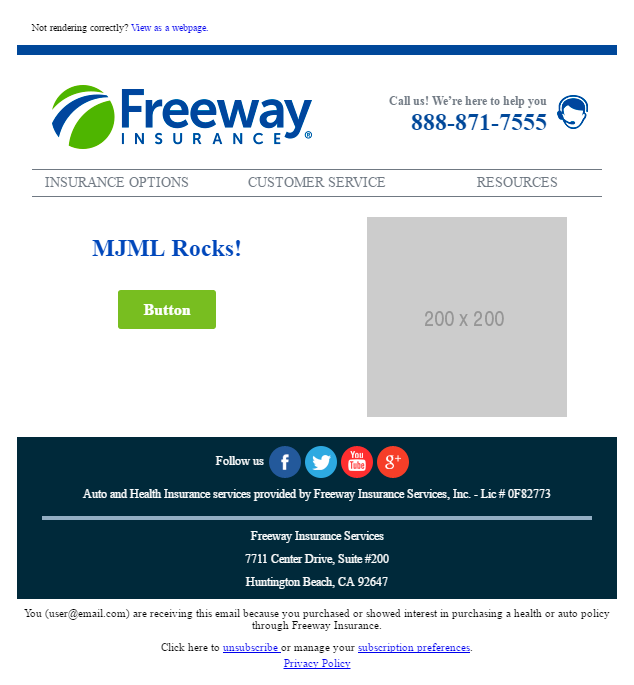
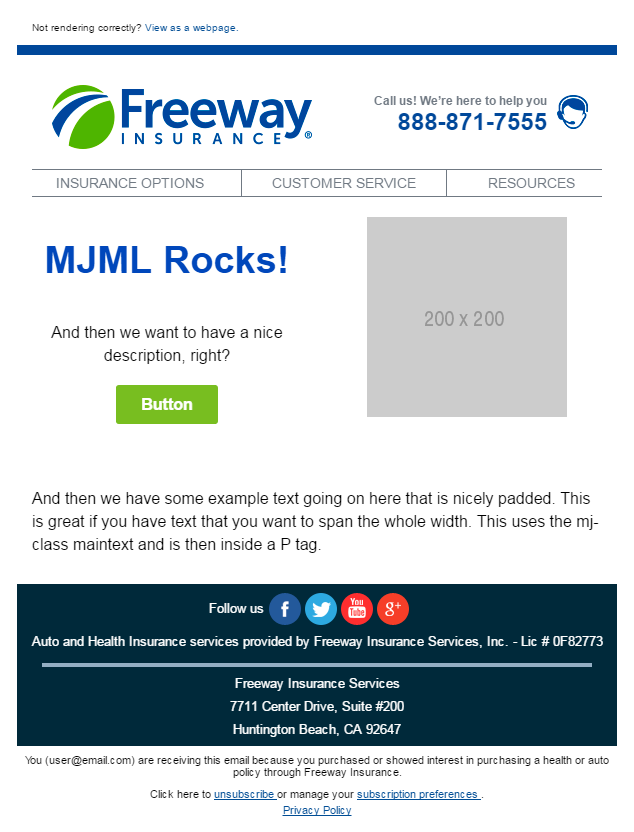
fixed the css styles that were not showing up, had to put them outside the attribute tag in order for them to work. Also fixed the menu, for some reason the vertical lines were not showing but they are back now.

Changed region(s): [[0.0, 0.4599, 0.989, 0.981], [0.03, 0.0307, 0.989, 0.5212], [0.6593, 0.3679, 0.8091, 0.3985]]

diff --git a/Template/template.html b/Template/template.html
@@ -11,7 +11,7 @@
     width:100% !important;
   }
 </style>
-<![endif]--><style type="text/css">@media only screen and (min-width:480px){.mj-column-per-100{width:100%!important}.mj-column-per-50{width:50%!important}.mj-column-per-50{width:50%!important}.mj-column-per-80{width:80%!important}.mj-column-per-20{width:20%!important}.mj-column-per-33{width:33.333333333333336%!important}.mj-column-per-100{width:100%!important}.mj-column-per-42{width:42%!important}.mj-column-per-6{width:6%!important}}</style></head><body style="background:#fff"><div style="display:none;font-size:1px;color:#fff;line-height:1px;max-height:0;max-width:0;opacity:0;overflow:hidden">This is the pre header text</div><div class="mj-container" style="background-color:#fff"><!--[if mso | IE]>
+<![endif]--><style type="text/css">@media (max-width:480px){.navhide{border-right-color:#fff!important;border-right-width:0;border-right-style:none}}</style><style type="text/css">@media only screen and (min-width:480px){.mj-column-per-100{width:100%!important}.mj-column-per-50{width:50%!important}.mj-column-per-50{width:50%!important}.mj-column-per-80{width:80%!important}.mj-column-per-20{width:20%!important}.mj-column-per-37{width:37%!important}.mj-column-per-34{width:34%!important}.mj-column-per-28{width:28%!important}.mj-column-per-100{width:100%!important}.mj-column-per-42{width:42%!important}.mj-column-per-6{width:6%!important}}</style></head><body style="background:#fff"><div style="display:none;font-size:1px;color:#fff;line-height:1px;max-height:0;max-width:0;opacity:0;overflow:hidden">This is the pre header text</div><div class="mj-container" style="background-color:#fff"><!--[if mso | IE]>
       <table role="presentation" border="0" cellpadding="0" cellspacing="0" width="600" align="center" style="width:600px;">
         <tr>
           <td style="line-height:0px;font-size:0px;mso-line-height-rule:exactly;">
@@ -23,7 +23,7 @@
       <table role="presentation" border="0" cellpadding="0" cellspacing="0">
         <tr>
           <td style="vertical-align:top;width:600px;">
-      <![endif]--><div class="mj-column-per-100 outlook-group-fix" style="vertical-align:top;display:inline-block;direction:ltr;font-size:13px;text-align:left;width:100%"><table role="presentation" cellpadding="0" cellspacing="0" width="100%" border="0"><tbody><tr><td style="word-wrap:break-word;font-size:0;padding:0 0 10px 15px" align="left"><div style="cursor:auto;color:#000;font-family:Merriweather+Sans,Arial,Helvetica,sans-serif;font-size:10px;line-height:15px;text-align:left">Not rendering correctly? <a style="text-decoration:none" data-targettype="sysaction" href="http://s651302597.t.en25.com/e/es?s=~~eloqua..type--emailfield..syntax--siteid..encodeFor--url~~&e=~~eloqua..type--emailfield..syntax--elqemailsaveguid..encodeFor--url~~&elqTrackId=233c7383c2044c308bdcd185b1a0b427">View as a webpage.</a></div></td></tr><tr><td style="word-wrap:break-word;font-size:0;padding:0"><p style="font-size:1px;margin:0 auto;border-top:10px solid #00489a;width:100%"></p><!--[if mso | IE]><table role="presentation" align="center" border="0" cellpadding="0" cellspacing="0" style="font-size:1px;margin:0px auto;border-top:10px solid #00489a;width:100%;" width="600"><tr><td style="height:0;line-height:0;"> </td></tr></table><![endif]--></td></tr></tbody></table></div><!--[if mso | IE]>
+      <![endif]--><div class="mj-column-per-100 outlook-group-fix" style="vertical-align:top;display:inline-block;direction:ltr;font-size:13px;text-align:left;width:100%"><table role="presentation" cellpadding="0" cellspacing="0" width="100%" border="0"><tbody><tr><td style="word-wrap:break-word;font-size:0;padding:0 0 10px 15px" align="left"><div style="cursor:auto;color:#000;font-family:Arial,Helvetica,sans-serif;font-size:10px;line-height:15px;text-align:left">Not rendering correctly? <a style="color:#004d95;text-decoration:none" data-targettype="sysaction" href="http://s651302597.t.en25.com/e/es?s=~~eloqua..type--emailfield..syntax--siteid..encodeFor--url~~&e=~~eloqua..type--emailfield..syntax--elqemailsaveguid..encodeFor--url~~&elqTrackId=233c7383c2044c308bdcd185b1a0b427">View as a webpage.</a></div></td></tr><tr><td style="word-wrap:break-word;font-size:0;padding:0"><p style="line-height:23px;margin-bottom:8px;font-size:1px;margin:0 auto;border-top:10px solid #00489a;width:100%"></p><!--[if mso | IE]><table role="presentation" align="center" border="0" cellpadding="0" cellspacing="0" style="font-size:1px;margin:0px auto;border-top:10px solid #00489a;width:100%;" width="600"><tr><td style="height:0;line-height:0;"> </td></tr></table><![endif]--></td></tr></tbody></table></div><!--[if mso | IE]>
       </td></tr></table>
       <![endif]--></td></tr></tbody></table></div><!--[if mso | IE]>
         </td>
@@ -34,13 +34,13 @@
       <table role="presentation" border="0" cellpadding="0" cellspacing="0">
         <tr>
           <td style="vertical-align:top;width:300px;">
-      <![endif]--><div class="mj-column-per-50 outlook-group-fix" style="vertical-align:top;display:inline-block;direction:ltr;font-size:13px;text-align:left;width:100%"><table role="presentation" cellpadding="0" cellspacing="0" style="vertical-align:top" width="100%" border="0"><tbody><tr><td style="word-wrap:break-word;font-size:0;padding:0;padding-top:0;padding-left:30px" align="center"><table role="presentation" cellpadding="0" cellspacing="0" style="border-collapse:collapse;border-spacing:0" align="center" border="0"><tbody><tr><td style="width:260px"><a href="http://www.freewayinsurance.com/" target="_blank"><img alt="" height="auto" src="http://www.freewayinsurance.com/mailing/fwm25-04-2016/images/logo.png" style="border:none;border-radius:0;display:block;font-size:13px;outline:0;text-decoration:none;width:100%;height:auto" width="260"></a></td></tr></tbody></table></td></tr></tbody></table></div><!--[if mso | IE]>
+      <![endif]--><div class="mj-column-per-50 outlook-group-fix" style="vertical-align:top;display:inline-block;direction:ltr;font-size:13px;text-align:left;width:100%"><table role="presentation" cellpadding="0" cellspacing="0" style="vertical-align:top" width="100%" border="0"><tbody><tr><td style="word-wrap:break-word;font-size:0;padding:0;padding-top:0;padding-left:30px" align="center"><table role="presentation" cellpadding="0" cellspacing="0" style="border-collapse:collapse;border-spacing:0" align="center" border="0"><tbody><tr><td style="width:260px"><a href="http://www.freewayinsurance.com/" target="_blank" style="color:#004d95"><img alt="" height="auto" src="http://www.freewayinsurance.com/mailing/fwm25-04-2016/images/logo.png" style="border:none;border-radius:0;display:block;font-size:13px;outline:0;text-decoration:none;width:100%;height:auto" width="260"></a></td></tr></tbody></table></td></tr></tbody></table></div><!--[if mso | IE]>
       </td><td style="vertical-align:top;width:300px;">
       <![endif]--><div class="mj-column-per-50 outlook-group-fix" style="vertical-align:top;display:inline-block;font-size:0;line-height:0;text-align:left;width:100%"><!--[if mso | IE]>
       <table  role="presentation" border="0" cellpadding="0" cellspacing="0">
         <tr>
           <td style="vertical-align:bottom;width:240px;">
-      <![endif]--><div class="mj-column-per-80 outlook-group-fix" style="vertical-align:bottom;display:inline-block;direction:ltr;font-size:13px;text-align:left;width:80%"><table role="presentation" cellpadding="0" cellspacing="0" style="vertical-align:bottom" width="100%" border="0"><tbody><tr><td style="word-wrap:break-word;font-size:0;padding:10px 10px 0 0" align="right"><div style="cursor:auto;color:#707983;font-family:Merriweather+Sans,Arial,Helvetica,sans-serif;font-size:12px;font-weight:700;line-height:12px;text-align:right">Call us! We’re here to help you</div></td></tr><tr><td style="word-wrap:break-word;font-size:0;padding:0 10px 0 0" align="right"><div style="cursor:auto;color:#00489a;font-family:Merriweather+Sans,Arial,Helvetica,sans-serif;font-size:24px;font-weight:700;line-height:30px;text-align:right"><a href="tel:8888717555" style="text-decoration:none;color:#00489a">888-871-7555</a></div></td></tr></tbody></table></div><!--[if mso | IE]>
+      <![endif]--><div class="mj-column-per-80 outlook-group-fix" style="vertical-align:bottom;display:inline-block;direction:ltr;font-size:13px;text-align:left;width:80%"><table role="presentation" cellpadding="0" cellspacing="0" style="vertical-align:bottom" width="100%" border="0"><tbody><tr><td style="word-wrap:break-word;font-size:0;padding:10px 10px 0 0" align="right"><div style="cursor:auto;color:#707983;font-family:Arial,Helvetica,sans-serif;font-size:12px;font-weight:700;line-height:12px;text-align:right">Call us! We’re here to help you</div></td></tr><tr><td style="word-wrap:break-word;font-size:0;padding:0 10px 0 0" align="right"><div style="cursor:auto;color:#00489a;font-family:Arial,Helvetica,sans-serif;font-size:24px;font-weight:700;line-height:30px;text-align:right"><a href="tel:8888717555" style="text-decoration:none;color:#00489a">888-871-7555</a></div></td></tr></tbody></table></div><!--[if mso | IE]>
             </td>
             <td style="vertical-align:bottom;width:60px;">
       <![endif]--><div class="mj-column-per-20 outlook-group-fix" style="vertical-align:bottom;display:inline-block;direction:ltr;font-size:13px;text-align:left;width:20%"><table role="presentation" cellpadding="0" cellspacing="0" style="vertical-align:bottom" width="100%" border="0"><tbody><tr><td style="word-wrap:break-word;font-size:0;padding:10px 0 8px 0" align="left"><table role="presentation" cellpadding="0" cellspacing="0" style="border-collapse:collapse;border-spacing:0" align="left" border="0"><tbody><tr><td style="width:31px"><img alt="" height="auto" src="http://www.freewayinsurance.com/mailing/fwm25-04-2016/images/phone-icon.png" style="border:none;border-radius:0;display:block;font-size:13px;outline:0;text-decoration:none;width:100%;height:auto" width="31"></td></tr></tbody></table></td></tr></tbody></table></div><!--[if mso | IE]>
@@ -58,7 +58,7 @@
       <table role="presentation" border="0" cellpadding="0" cellspacing="0">
         <tr>
           <td style="vertical-align:top;width:600px;">
-      <![endif]--><div class="mj-column-per-100 outlook-group-fix" style="vertical-align:top;display:inline-block;direction:ltr;font-size:13px;text-align:left;width:100%"><table role="presentation" cellpadding="0" cellspacing="0" width="100%" border="0"><tbody><tr><td style="word-wrap:break-word;font-size:0;padding:0"><p style="font-size:1px;margin:0 auto;border-top:1px solid #707983;width:95%"></p><!--[if mso | IE]><table role="presentation" align="center" border="0" cellpadding="0" cellspacing="0" style="font-size:1px;margin:0px auto;border-top:1px solid #707983;width:95%;" width="570"><tr><td style="height:0;line-height:0;"> </td></tr></table><![endif]--></td></tr></tbody></table></div><!--[if mso | IE]>
+      <![endif]--><div class="mj-column-per-100 outlook-group-fix" style="vertical-align:top;display:inline-block;direction:ltr;font-size:13px;text-align:left;width:100%"><table role="presentation" cellpadding="0" cellspacing="0" width="100%" border="0"><tbody><tr><td style="word-wrap:break-word;font-size:0;padding:0"><p style="line-height:23px;margin-bottom:8px;font-size:1px;margin:0 auto;border-top:1px solid #707983;width:95%"></p><!--[if mso | IE]><table role="presentation" align="center" border="0" cellpadding="0" cellspacing="0" style="font-size:1px;margin:0px auto;border-top:1px solid #707983;width:95%;" width="570"><tr><td style="height:0;line-height:0;"> </td></tr></table><![endif]--></td></tr></tbody></table></div><!--[if mso | IE]>
       </td></tr></table>
       <![endif]--></td></tr></tbody></table></div><!--[if mso | IE]>
         </td>
@@ -68,12 +68,12 @@
       <![endif]--><div style="margin:0 auto;max-width:600px"><table role="presentation" cellpadding="0" cellspacing="0" style="font-size:0;width:100%" align="center" border="0"><tbody><tr><td style="text-align:center;vertical-align:top;direction:ltr;font-size:0;padding:0"><!--[if mso | IE]>
       <table role="presentation" border="0" cellpadding="0" cellspacing="0">
         <tr>
-          <td style="vertical-align:top;width:200px;" class="navhide-outlook">
-      <![endif]--><div class="mj-column-per-33 outlook-group-fix navhide" style="vertical-align:top;display:inline-block;direction:ltr;font-size:13px;text-align:left;width:100%"><table role="presentation" cellpadding="0" cellspacing="0" width="100%" border="0"><tbody><tr><td style="word-wrap:break-word;font-size:0;padding:3px 0 3px 0" align="center"><div style="cursor:auto;color:#000;font-family:Merriweather+Sans,Arial,Helvetica,sans-serif;font-size:14px;line-height:20px;text-align:center"><a style="text-decoration:none;color:#707983" href="http://www.freewayinsurance.com/insurance-options/">INSURANCE OPTIONS</a></div></td></tr></tbody></table></div><!--[if mso | IE]>
-      </td><td style="vertical-align:top;width:200px;" class="navhide-outlook">
-      <![endif]--><div class="mj-column-per-33 outlook-group-fix navhide" style="vertical-align:top;display:inline-block;direction:ltr;font-size:13px;text-align:left;width:100%"><table role="presentation" cellpadding="0" cellspacing="0" width="100%" border="0"><tbody><tr><td style="word-wrap:break-word;font-size:0;padding:3px 0 3px 0" align="center"><div style="cursor:auto;color:#000;font-family:Merriweather+Sans,Arial,Helvetica,sans-serif;font-size:14px;line-height:20px;text-align:center"><a style="text-decoration:none;color:#707983" href="http://www.freewayinsurance.com/customer-service/">CUSTOMER SERVICE</a></div></td></tr></tbody></table></div><!--[if mso | IE]>
-      </td><td style="vertical-align:top;width:200px;">
-      <![endif]--><div class="mj-column-per-33 outlook-group-fix" style="vertical-align:top;display:inline-block;direction:ltr;font-size:13px;text-align:left;width:100%"><table role="presentation" cellpadding="0" cellspacing="0" width="100%" border="0"><tbody><tr><td style="word-wrap:break-word;font-size:0;padding:3px 0 3px 0" align="center"><div style="cursor:auto;color:#000;font-family:Merriweather+Sans,Arial,Helvetica,sans-serif;font-size:14px;line-height:20px;text-align:center"><a style="text-decoration:none;color:#707983" href="http://www.freewayinsurance.com/resources/">RESOURCES</a></div></td></tr></tbody></table></div><!--[if mso | IE]>
+          <td style="vertical-align:top;width:222px;" class="navhide-outlook">
+      <![endif]--><div class="mj-column-per-37 outlook-group-fix navhide" style="border-right-color:#707983;border-right-width:1px;border-right-style:solid;vertical-align:top;display:inline-block;direction:ltr;font-size:13px;text-align:left;width:100%"><table role="presentation" cellpadding="0" cellspacing="0" width="100%" border="0"><tbody><tr><td style="word-wrap:break-word;font-size:0;padding:3px 0 3px 0" align="center"><div style="cursor:auto;color:#000;font-family:Arial,Helvetica,sans-serif;font-size:14px;line-height:20px;text-align:center"><a style="text-decoration:none;color:#707983" href="http://www.freewayinsurance.com/insurance-options/">INSURANCE OPTIONS</a></div></td></tr></tbody></table></div><!--[if mso | IE]>
+      </td><td style="vertical-align:top;width:204px;" class="navhide-outlook">
+      <![endif]--><div class="mj-column-per-34 outlook-group-fix navhide" style="border-right-color:#707983;border-right-width:1px;border-right-style:solid;vertical-align:top;display:inline-block;direction:ltr;font-size:13px;text-align:left;width:100%"><table role="presentation" cellpadding="0" cellspacing="0" width="100%" border="0"><tbody><tr><td style="word-wrap:break-word;font-size:0;padding:3px 0 3px 0" align="center"><div style="cursor:auto;color:#000;font-family:Arial,Helvetica,sans-serif;font-size:14px;line-height:20px;text-align:center"><a style="text-decoration:none;color:#707983" href="http://www.freewayinsurance.com/customer-service/">CUSTOMER SERVICE</a></div></td></tr></tbody></table></div><!--[if mso | IE]>
+      </td><td style="vertical-align:top;width:168px;">
+      <![endif]--><div class="mj-column-per-28 outlook-group-fix" style="vertical-align:top;display:inline-block;direction:ltr;font-size:13px;text-align:left;width:100%"><table role="presentation" cellpadding="0" cellspacing="0" width="100%" border="0"><tbody><tr><td style="word-wrap:break-word;font-size:0;padding:3px 0 3px 0" align="center"><div style="cursor:auto;color:#000;font-family:Arial,Helvetica,sans-serif;font-size:14px;line-height:20px;text-align:center"><a style="text-decoration:none;color:#707983" href="http://www.freewayinsurance.com/resources/">RESOURCES</a></div></td></tr></tbody></table></div><!--[if mso | IE]>
       </td></tr></table>
       <![endif]--></td></tr></tbody></table></div><!--[if mso | IE]>
         </td>
@@ -84,7 +84,7 @@
       <table role="presentation" border="0" cellpadding="0" cellspacing="0">
         <tr>
           <td style="vertical-align:top;width:600px;">
-      <![endif]--><div class="mj-column-per-100 outlook-group-fix" style="vertical-align:top;display:inline-block;direction:ltr;font-size:13px;text-align:left;width:100%"><table role="presentation" cellpadding="0" cellspacing="0" width="100%" border="0"><tbody><tr><td style="word-wrap:break-word;font-size:0;padding:0"><p style="font-size:1px;margin:0 auto;border-top:1px solid #707983;width:95%"></p><!--[if mso | IE]><table role="presentation" align="center" border="0" cellpadding="0" cellspacing="0" style="font-size:1px;margin:0px auto;border-top:1px solid #707983;width:95%;" width="570"><tr><td style="height:0;line-height:0;"> </td></tr></table><![endif]--></td></tr></tbody></table></div><!--[if mso | IE]>
+      <![endif]--><div class="mj-column-per-100 outlook-group-fix" style="vertical-align:top;display:inline-block;direction:ltr;font-size:13px;text-align:left;width:100%"><table role="presentation" cellpadding="0" cellspacing="0" width="100%" border="0"><tbody><tr><td style="word-wrap:break-word;font-size:0;padding:0"><p style="line-height:23px;margin-bottom:8px;font-size:1px;margin:0 auto;border-top:1px solid #707983;width:95%"></p><!--[if mso | IE]><table role="presentation" align="center" border="0" cellpadding="0" cellspacing="0" style="font-size:1px;margin:0px auto;border-top:1px solid #707983;width:95%;" width="570"><tr><td style="height:0;line-height:0;"> </td></tr></table><![endif]--></td></tr></tbody></table></div><!--[if mso | IE]>
       </td></tr></table>
       <![endif]--></td></tr></tbody></table></div><!--[if mso | IE]>
           </td>
@@ -100,9 +100,21 @@
       <table role="presentation" border="0" cellpadding="0" cellspacing="0">
         <tr>
           <td style="vertical-align:top;width:300px;">
-      <![endif]--><div class="mj-column-per-50 outlook-group-fix" style="vertical-align:top;display:inline-block;direction:ltr;font-size:13px;text-align:left;width:100%"><table role="presentation" cellpadding="0" cellspacing="0" width="100%" border="0"><tbody><tr><td style="word-wrap:break-word;font-size:0;padding:0" align="center"><div style="cursor:auto;color:#0047bb;font-family:Merriweather+Sans,Arial,Helvetica,sans-serif;font-size:16px;line-height:23px;text-align:center"><h2>MJML Rocks!</h2></div></td></tr><tr><td style="word-wrap:break-word;font-size:0;padding:10px 25px" align="center"><table role="presentation" cellpadding="0" cellspacing="0" style="border-collapse:separate" align="center" border="0"><tbody><tr><td style="border:none;border-radius:3px;color:#fff;cursor:auto;padding:10px 25px" align="center" valign="middle" bgcolor="#78BE20"><a href="#" style="text-decoration:none;background:#78be20;color:#fff;font-family:Merriweather+Sans,Arial,Helvetica,sans-serif;font-size:16px;font-weight:700;line-height:120%;text-transform:none;margin:0" target="_blank">Button</a></td></tr></tbody></table></td></tr></tbody></table></div><!--[if mso | IE]>
+      <![endif]--><div class="mj-column-per-50 outlook-group-fix" style="vertical-align:top;display:inline-block;direction:ltr;font-size:13px;text-align:left;width:100%"><table role="presentation" cellpadding="0" cellspacing="0" width="100%" border="0"><tbody><tr><td style="word-wrap:break-word;font-size:0;padding:0" align="center"><div style="cursor:auto;color:#0047bb;font-family:Arial,Helvetica,sans-serif;font-size:16px;line-height:23px;text-align:center"><h2 style="padding-bottom:5px;color:#0047bb;font-size:38px">MJML Rocks!</h2></div></td></tr><tr><td style="word-wrap:break-word;font-size:0;padding:0" align="center"><div style="cursor:auto;color:#000;font-family:Arial,Helvetica,sans-serif;font-size:16px;line-height:23px;text-align:center"><p style="line-height:23px;font-size:16px;margin-bottom:8px">And then we want to have a nice description, right?</p></div></td></tr><tr><td style="word-wrap:break-word;font-size:0;padding:10px 25px" align="center"><table role="presentation" cellpadding="0" cellspacing="0" style="border-collapse:separate" align="center" border="0"><tbody><tr><td style="border:none;border-radius:3px;color:#fff;cursor:auto;padding:10px 25px" align="center" valign="middle" bgcolor="#78BE20"><a href="#" style="text-decoration:none;background:#78be20;color:#fff;font-family:Arial,Helvetica,sans-serif;font-size:16px;font-weight:700;line-height:120%;text-transform:none;margin:0" target="_blank">Button</a></td></tr></tbody></table></td></tr></tbody></table></div><!--[if mso | IE]>
       </td><td style="vertical-align:top;width:300px;">
       <![endif]--><div class="mj-column-per-50 outlook-group-fix" style="vertical-align:top;display:inline-block;direction:ltr;font-size:13px;text-align:left;width:100%"><table role="presentation" cellpadding="0" cellspacing="0" width="100%" border="0"><tbody><tr><td style="word-wrap:break-word;font-size:0;padding:0" align="center"><table role="presentation" cellpadding="0" cellspacing="0" style="border-collapse:collapse;border-spacing:0" align="center" border="0"><tbody><tr><td style="width:200px"><img alt="" height="auto" src="http://placehold.it/200x200" style="border:none;border-radius:0;display:block;font-size:13px;outline:0;text-decoration:none;width:100%;height:auto" width="200"></td></tr></tbody></table></td></tr></tbody></table></div><!--[if mso | IE]>
+      </td></tr></table>
+      <![endif]--></td></tr></tbody></table></div><!--[if mso | IE]>
+      </td></tr></table>
+      <![endif]--><!--[if mso | IE]>
+      <table role="presentation" border="0" cellpadding="0" cellspacing="0" width="600" align="center" style="width:600px;">
+        <tr>
+          <td style="line-height:0px;font-size:0px;mso-line-height-rule:exactly;">
+      <![endif]--><div style="margin:0 auto;max-width:600px"><table role="presentation" cellpadding="0" cellspacing="0" style="font-size:0;width:100%" align="center" border="0"><tbody><tr><td style="text-align:center;vertical-align:top;direction:ltr;font-size:0;padding:20px 0"><!--[if mso | IE]>
+      <table role="presentation" border="0" cellpadding="0" cellspacing="0">
+        <tr>
+          <td style="vertical-align:top;width:600px;">
+      <![endif]--><div class="mj-column-per-100 outlook-group-fix" style="vertical-align:top;display:inline-block;direction:ltr;font-size:13px;text-align:left;width:100%"><table role="presentation" cellpadding="0" cellspacing="0" width="100%" border="0"><tbody><tr><td style="word-wrap:break-word;font-size:0;padding:0 15px 0 15px" align="left"><div style="cursor:auto;color:#000;font-family:Arial,Helvetica,sans-serif;font-size:16px;line-height:23px;text-align:left"><p style="line-height:23px;font-size:16px;margin-bottom:8px">And then we have some example text going on here that is nicely padded. This is great if you have text that you want to span the whole width. This uses the mj-class maintext and is then inside a P tag.</p></div></td></tr></tbody></table></div><!--[if mso | IE]>
       </td></tr></table>
       <![endif]--></td></tr></tbody></table></div><!--[if mso | IE]>
       </td></tr></table>
@@ -118,19 +130,19 @@
       <table bgcolor="#00293a" role="presentation" border="0" cellpadding="0" cellspacing="0">
         <tr>
           <td style="vertical-align:bottom;width:252px;">
-      <![endif]--><div class="mj-column-per-42 outlook-group-fix" style="vertical-align:bottom;display:inline-block;direction:ltr;font-size:13px;text-align:left;width:42%"><table role="presentation" cellpadding="0" cellspacing="0" style="background:#00293a;vertical-align:bottom" width="100%" border="0"><tbody><tr><td style="word-wrap:break-word;font-size:0;padding:0 5px 5px 0" align="right"><div style="cursor:auto;color:#fff;font-family:Merriweather+Sans,Arial,Helvetica,sans-serif;font-size:12px;line-height:23px;text-align:right">Follow us</div></td></tr></tbody></table></div><!--[if mso | IE]>
+      <![endif]--><div class="mj-column-per-42 outlook-group-fix" style="vertical-align:bottom;display:inline-block;direction:ltr;font-size:13px;text-align:left;width:42%"><table role="presentation" cellpadding="0" cellspacing="0" style="background:#00293a;vertical-align:bottom" width="100%" border="0"><tbody><tr><td style="word-wrap:break-word;font-size:0;padding:0 5px 5px 0" align="right"><div style="cursor:auto;color:#fff;font-family:Arial,Helvetica,sans-serif;font-size:13px;line-height:23px;text-align:right">Follow us</div></td></tr></tbody></table></div><!--[if mso | IE]>
             </td>
             <td style="vertical-align:top;width:36px;">
-      <![endif]--><div class="mj-column-per-6 outlook-group-fix" style="vertical-align:top;display:inline-block;direction:ltr;font-size:13px;text-align:left;width:6%"><table role="presentation" cellpadding="0" cellspacing="0" style="background:#00293a" width="100%" border="0"><tbody><tr><td style="word-wrap:break-word;font-size:0;padding:0" align="left"><table role="presentation" cellpadding="0" cellspacing="0" style="border-collapse:collapse;border-spacing:0" align="left" border="0"><tbody><tr><td style="width:32px"><a href="https://www.facebook.com/freewayinsurance" target="_blank"><img alt="" height="auto" src="http://img03.en25.com/EloquaImages/clients/ConfieSegurosHoldingIICo/{df7de0d7-9fc1-4014-9a21-543e3c06efda}_facebook.png" style="border:none;border-radius:0;display:block;font-size:13px;outline:0;text-decoration:none;width:100%;height:auto" width="32"></a></td></tr></tbody></table></td></tr></tbody></table></div><!--[if mso | IE]>
+      <![endif]--><div class="mj-column-per-6 outlook-group-fix" style="vertical-align:top;display:inline-block;direction:ltr;font-size:13px;text-align:left;width:6%"><table role="presentation" cellpadding="0" cellspacing="0" style="background:#00293a" width="100%" border="0"><tbody><tr><td style="word-wrap:break-word;font-size:0;padding:0" align="left"><table role="presentation" cellpadding="0" cellspacing="0" style="border-collapse:collapse;border-spacing:0" align="left" border="0"><tbody><tr><td style="width:32px"><a href="https://www.facebook.com/freewayinsurance" target="_blank" style="color:#004d95"><img alt="" height="auto" src="http://img03.en25.com/EloquaImages/clients/ConfieSegurosHoldingIICo/{df7de0d7-9fc1-4014-9a21-543e3c06efda}_facebook.png" style="border:none;border-radius:0;display:block;font-size:13px;outline:0;text-decoration:none;width:100%;height:auto" width="32"></a></td></tr></tbody></table></td></tr></tbody></table></div><!--[if mso | IE]>
             </td>
             <td style="vertical-align:top;width:36px;">
-      <![endif]--><div class="mj-column-per-6 outlook-group-fix" style="vertical-align:top;display:inline-block;direction:ltr;font-size:13px;text-align:left;width:6%"><table role="presentation" cellpadding="0" cellspacing="0" style="background:#00293a" width="100%" border="0"><tbody><tr><td style="word-wrap:break-word;font-size:0;padding:0" align="left"><table role="presentation" cellpadding="0" cellspacing="0" style="border-collapse:collapse;border-spacing:0" align="left" border="0"><tbody><tr><td style="width:32px"><a href="https://twitter.com/freewaytweet" target="_blank"><img alt="" height="auto" src="http://img03.en25.com/EloquaImages/clients/ConfieSegurosHoldingIICo/{a2f9a344-6a70-4922-aad7-44611feb9e93}_twitter.png" style="border:none;border-radius:0;display:block;font-size:13px;outline:0;text-decoration:none;width:100%;height:auto" width="32"></a></td></tr></tbody></table></td></tr></tbody></table></div><!--[if mso | IE]>
+      <![endif]--><div class="mj-column-per-6 outlook-group-fix" style="vertical-align:top;display:inline-block;direction:ltr;font-size:13px;text-align:left;width:6%"><table role="presentation" cellpadding="0" cellspacing="0" style="background:#00293a" width="100%" border="0"><tbody><tr><td style="word-wrap:break-word;font-size:0;padding:0" align="left"><table role="presentation" cellpadding="0" cellspacing="0" style="border-collapse:collapse;border-spacing:0" align="left" border="0"><tbody><tr><td style="width:32px"><a href="https://twitter.com/freewaytweet" target="_blank" style="color:#004d95"><img alt="" height="auto" src="http://img03.en25.com/EloquaImages/clients/ConfieSegurosHoldingIICo/{a2f9a344-6a70-4922-aad7-44611feb9e93}_twitter.png" style="border:none;border-radius:0;display:block;font-size:13px;outline:0;text-decoration:none;width:100%;height:auto" width="32"></a></td></tr></tbody></table></td></tr></tbody></table></div><!--[if mso | IE]>
             </td>
             <td style="vertical-align:top;width:36px;">
-      <![endif]--><div class="mj-column-per-6 outlook-group-fix" style="vertical-align:top;display:inline-block;direction:ltr;font-size:13px;text-align:left;width:6%"><table role="presentation" cellpadding="0" cellspacing="0" style="background:#00293a" width="100%" border="0"><tbody><tr><td style="word-wrap:break-word;font-size:0;padding:0" align="left"><table role="presentation" cellpadding="0" cellspacing="0" style="border-collapse:collapse;border-spacing:0" align="left" border="0"><tbody><tr><td style="width:32px"><a href="https://www.youtube.com/user/freewayinsurance" target="_blank"><img alt="" height="auto" src="http://img03.en25.com/EloquaImages/clients/ConfieSegurosHoldingIICo/{5d375903-6c0c-450f-9315-604602cfe932}_youtube.png" style="border:none;border-radius:0;display:block;font-size:13px;outline:0;text-decoration:none;width:100%;height:auto" width="32"></a></td></tr></tbody></table></td></tr></tbody></table></div><!--[if mso | IE]>
+      <![endif]--><div class="mj-column-per-6 outlook-group-fix" style="vertical-align:top;display:inline-block;direction:ltr;font-size:13px;text-align:left;width:6%"><table role="presentation" cellpadding="0" cellspacing="0" style="background:#00293a" width="100%" border="0"><tbody><tr><td style="word-wrap:break-word;font-size:0;padding:0" align="left"><table role="presentation" cellpadding="0" cellspacing="0" style="border-collapse:collapse;border-spacing:0" align="left" border="0"><tbody><tr><td style="width:32px"><a href="https://www.youtube.com/user/freewayinsurance" target="_blank" style="color:#004d95"><img alt="" height="auto" src="http://img03.en25.com/EloquaImages/clients/ConfieSegurosHoldingIICo/{5d375903-6c0c-450f-9315-604602cfe932}_youtube.png" style="border:none;border-radius:0;display:block;font-size:13px;outline:0;text-decoration:none;width:100%;height:auto" width="32"></a></td></tr></tbody></table></td></tr></tbody></table></div><!--[if mso | IE]>
             </td>
             <td style="vertical-align:top;width:36px;">
-      <![endif]--><div class="mj-column-per-6 outlook-group-fix" style="vertical-align:top;display:inline-block;direction:ltr;font-size:13px;text-align:left;width:6%"><table role="presentation" cellpadding="0" cellspacing="0" style="background:#00293a" width="100%" border="0"><tbody><tr><td style="word-wrap:break-word;font-size:0;padding:0" align="left"><table role="presentation" cellpadding="0" cellspacing="0" style="border-collapse:collapse;border-spacing:0" align="left" border="0"><tbody><tr><td style="width:32px"><a href="https://plus.google.com/+freewayinsurance/" target="_blank"><img alt="" height="auto" src="http://img03.en25.com/EloquaImages/clients/ConfieSegurosHoldingIICo/{50bc62fb-a2af-4122-8478-bde18fcb5a11}_gplus.png" style="border:none;border-radius:0;display:block;font-size:13px;outline:0;text-decoration:none;width:100%;height:auto" width="32"></a></td></tr></tbody></table></td></tr></tbody></table></div><!--[if mso | IE]>
+      <![endif]--><div class="mj-column-per-6 outlook-group-fix" style="vertical-align:top;display:inline-block;direction:ltr;font-size:13px;text-align:left;width:6%"><table role="presentation" cellpadding="0" cellspacing="0" style="background:#00293a" width="100%" border="0"><tbody><tr><td style="word-wrap:break-word;font-size:0;padding:0" align="left"><table role="presentation" cellpadding="0" cellspacing="0" style="border-collapse:collapse;border-spacing:0" align="left" border="0"><tbody><tr><td style="width:32px"><a href="https://plus.google.com/+freewayinsurance/" target="_blank" style="color:#004d95"><img alt="" height="auto" src="http://img03.en25.com/EloquaImages/clients/ConfieSegurosHoldingIICo/{50bc62fb-a2af-4122-8478-bde18fcb5a11}_gplus.png" style="border:none;border-radius:0;display:block;font-size:13px;outline:0;text-decoration:none;width:100%;height:auto" width="32"></a></td></tr></tbody></table></td></tr></tbody></table></div><!--[if mso | IE]>
             </td>
           </tr>
         </table>
@@ -146,7 +158,7 @@
       <table role="presentation" border="0" cellpadding="0" cellspacing="0">
         <tr>
           <td style="vertical-align:top;width:600px;">
-      <![endif]--><div class="mj-column-per-100 outlook-group-fix" style="vertical-align:top;display:inline-block;direction:ltr;font-size:13px;text-align:left;width:100%"><table role="presentation" cellpadding="0" cellspacing="0" style="background:#00293a" width="100%" border="0"><tbody><tr><td style="word-wrap:break-word;font-size:0;padding:5px 0 0 0" align="center"><div style="cursor:auto;color:#fff;font-family:Merriweather+Sans,Arial,Helvetica,sans-serif;font-size:12px;line-height:23px;text-align:center">Auto and Health Insurance services provided by Freeway Insurance Services, Inc. - Lic # 0F82773</div></td></tr><tr><td style="word-wrap:break-word;font-size:0;padding:10px 25px 0 25px"><p style="font-size:1px;margin:0 auto;border-top:4px solid #93aec3;width:100%"></p><!--[if mso | IE]><table role="presentation" align="center" border="0" cellpadding="0" cellspacing="0" style="font-size:1px;margin:0px auto;border-top:4px solid #93aec3;width:100%;" width="600"><tr><td style="height:0;line-height:0;"> </td></tr></table><![endif]--></td></tr><tr><td style="word-wrap:break-word;font-size:0;padding:5px" align="center"><div style="cursor:auto;color:#fff;font-family:Merriweather+Sans,Arial,Helvetica,sans-serif;font-size:12px;line-height:23px;text-align:center">Freeway Insurance Services<br>7711 Center Drive, Suite #200<br>Huntington Beach, CA 92647<br></div></td></tr></tbody></table></div><!--[if mso | IE]>
+      <![endif]--><div class="mj-column-per-100 outlook-group-fix" style="vertical-align:top;display:inline-block;direction:ltr;font-size:13px;text-align:left;width:100%"><table role="presentation" cellpadding="0" cellspacing="0" style="background:#00293a" width="100%" border="0"><tbody><tr><td style="word-wrap:break-word;font-size:0;padding:5px 0 0 0" align="center"><div style="cursor:auto;color:#fff;font-family:Arial,Helvetica,sans-serif;font-size:13px;line-height:23px;text-align:center">Auto and Health Insurance services provided by Freeway Insurance Services, Inc. - Lic # 0F82773</div></td></tr><tr><td style="word-wrap:break-word;font-size:0;padding:10px 25px 0 25px"><p style="line-height:23px;margin-bottom:8px;font-size:1px;margin:0 auto;border-top:4px solid #93aec3;width:100%"></p><!--[if mso | IE]><table role="presentation" align="center" border="0" cellpadding="0" cellspacing="0" style="font-size:1px;margin:0px auto;border-top:4px solid #93aec3;width:100%;" width="600"><tr><td style="height:0;line-height:0;"> </td></tr></table><![endif]--></td></tr><tr><td style="word-wrap:break-word;font-size:0;padding:5px" align="center"><div style="cursor:auto;color:#fff;font-family:Arial,Helvetica,sans-serif;font-size:13px;line-height:23px;text-align:center">Freeway Insurance Services<br>7711 Center Drive, Suite #200<br>Huntington Beach, CA 92647<br></div></td></tr></tbody></table></div><!--[if mso | IE]>
       </td></tr></table>
       <![endif]--></td></tr></tbody></table></div></td></tr></tbody></table><!--[if mso | IE]>
       </td></tr></table>
@@ -158,7 +170,7 @@
       <table role="presentation" border="0" cellpadding="0" cellspacing="0">
         <tr>
           <td style="vertical-align:top;width:600px;">
-      <![endif]--><div class="mj-column-per-100 outlook-group-fix" style="vertical-align:top;display:inline-block;direction:ltr;font-size:13px;text-align:left;width:100%"><table role="presentation" cellpadding="0" cellspacing="0" width="100%" border="0"><tbody><tr><td style="word-wrap:break-word;font-size:0;padding:8px 0 5px 0" align="center"><div style="cursor:auto;color:#000;font-family:Merriweather+Sans,Arial,Helvetica,sans-serif;font-size:11px;line-height:12px;text-align:center">You (user@email.com) are receiving this email because you purchased or showed interest in purchasing a health or auto policy through Freeway Insurance.</div></td></tr><tr><td style="word-wrap:break-word;font-size:0;padding:5px 0 5px 0" align="center"><div style="cursor:auto;color:#000;font-family:Merriweather+Sans,Arial,Helvetica,sans-serif;font-size:11px;line-height:12px;text-align:center"><a style="text-decoration:none;color:inherit" data-targettype="sysaction" href="http://s651302597.t.en25.com/e/u?s=~~eloqua..type--emailfield..syntax--siteid..encodeFor--url~~">Click here to </a><a data-targettype="sysaction" href="http://s651302597.t.en25.com/e/u?s=~~eloqua..type--emailfield..syntax--siteid..encodeFor--url~~">unsubscribe </a>or manage your <a data-targettype="sysaction" href="http://app.e.freewayinsurance.com/e/e?s=~~eloqua..type--emailfield..syntax--siteid..encodeFor--url~~&e=~~eloqua..type--emailfield..syntax--elqemailsaveguid..encodeFor--url~~">subscription preferences</a>.</div></td></tr><tr><td style="word-wrap:break-word;font-size:0;padding:0 0 5px 0" align="center"><div style="cursor:auto;color:#000;font-family:Merriweather+Sans,Arial,Helvetica,sans-serif;font-size:11px;line-height:10px;text-align:center"><a href="http://www.freewayinsurance.com/privacy-policy/">Privacy Policy</a></div></td></tr></tbody></table></div><!--[if mso | IE]>
+      <![endif]--><div class="mj-column-per-100 outlook-group-fix" style="vertical-align:top;display:inline-block;direction:ltr;font-size:13px;text-align:left;width:100%"><table role="presentation" cellpadding="0" cellspacing="0" width="100%" border="0"><tbody><tr><td style="word-wrap:break-word;font-size:0;padding:8px 0 5px 0" align="center"><div style="cursor:auto;color:#000;font-family:Arial,Helvetica,sans-serif;font-size:11px;line-height:12px;text-align:center">You (user@email.com) are receiving this email because you purchased or showed interest in purchasing a health or auto policy through Freeway Insurance.</div></td></tr><tr><td style="word-wrap:break-word;font-size:0;padding:5px 0 5px 0" align="center"><div style="cursor:auto;color:#000;font-family:Arial,Helvetica,sans-serif;font-size:11px;line-height:12px;text-align:center"><a style="text-decoration:none;color:inherit" data-targettype="sysaction" href="http://s651302597.t.en25.com/e/u?s=~~eloqua..type--emailfield..syntax--siteid..encodeFor--url~~">Click here to </a><a data-targettype="sysaction" href="http://s651302597.t.en25.com/e/u?s=~~eloqua..type--emailfield..syntax--siteid..encodeFor--url~~" style="color:#004d95">unsubscribe </a>or manage your <a data-targettype="sysaction" href="http://app.e.freewayinsurance.com/e/e?s=~~eloqua..type--emailfield..syntax--siteid..encodeFor--url~~&e=~~eloqua..type--emailfield..syntax--elqemailsaveguid..encodeFor--url~~" style="color:#004d95">subscription preferences </a>.</div></td></tr><tr><td style="word-wrap:break-word;font-size:0;padding:0 0 5px 0" align="center"><div style="cursor:auto;color:#000;font-family:Arial,Helvetica,sans-serif;font-size:11px;line-height:10px;text-align:center"><a href="http://www.freewayinsurance.com/privacy-policy/" style="color:#004d95">Privacy Policy</a></div></td></tr></tbody></table></div><!--[if mso | IE]>
       </td></tr></table>
       <![endif]--></td></tr></tbody></table></div><!--[if mso | IE]>
       </td></tr></table>
